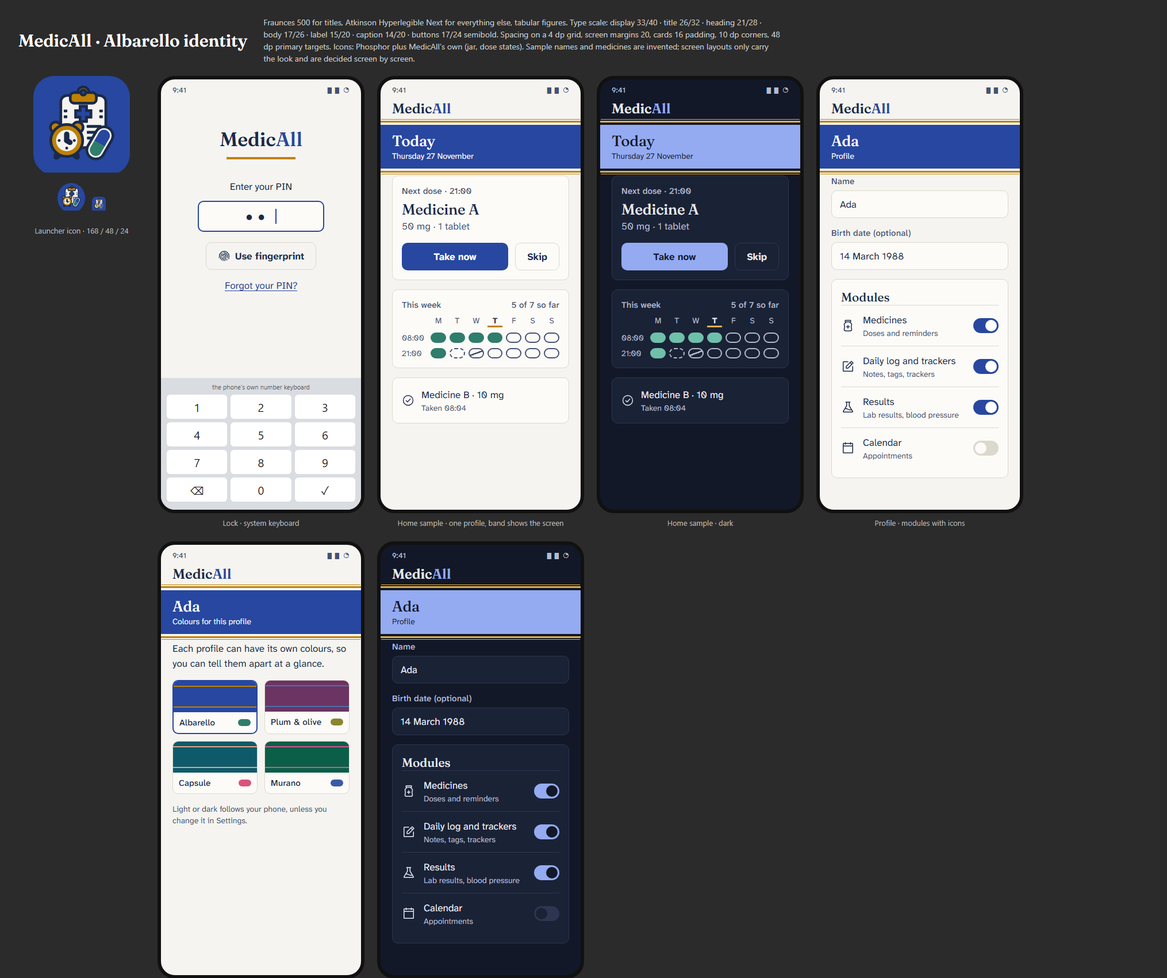
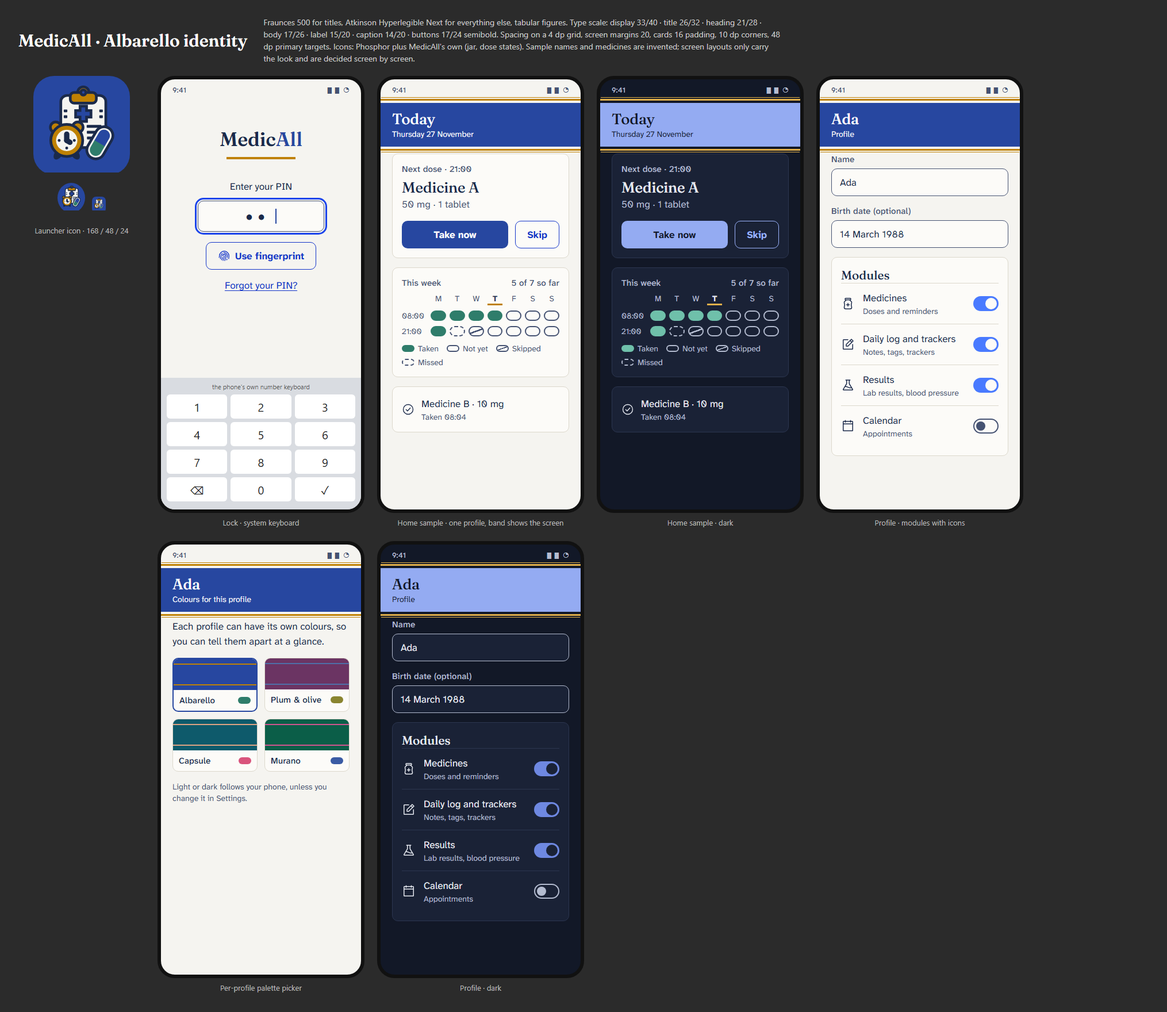
Second pre-merge review: state colours, no-profile palette, band details (SPEC:R93, R114-R116, R120, R122)
- R122 adds link, focus, switch-on, disabled and error colours per palette and mode, derived
  against each whole palette; red only for real errors; every Material 3 role mapped.
- R114: a device palette, Albarello by default, for screens with no profile; red only as the error colour.
- R116: no wordmark row above the band; band sizes, screens without a band, shown profiles.
- R93 acceptance names each rule and bans colour literals; R115's check names the phone;
  R120 today's label at weight 600 and the legend under the strip.
- identity.png re-rendered to match the rules; states.png added; decision record updated
  with what is left for the phases that build each screen.

Changed region(s): [[0.0, 0.0, 0.9, 0.4676], [0.1241, 0.3741, 0.9, 1.0], [0.1552, 0.1247, 0.2793, 0.3118]]

diff --git a/SPEC.md b/SPEC.md
@@ -116,6 +116,7 @@ Kinds: O owner rule · D decided · I inherited · A assumed · Q open.
 | D-R119 | Lock screen look | 16. Visual design |
 | D-R120 | Week strip | 16. Visual design |
 | D-R121 | Scale colours | 16. Visual design |
+| D-R122 | State colours | 16. Visual design |
 | D-R94 | Today screen | 16. Visual design |
 | D-R95 | Frontend decisions are the owner's | 16. Visual design |
 | D-R96 | A dose confirmed on two devices | 17. Edge cases |
@@ -1487,13 +1488,13 @@ People who live with several conditions keep medicines, appointments, lab report
 
 ### D-R93 · Visual identity
 
-**Rule:** MedicAll's visual identity is Albarello, taken from the Italian maiolica pharmacy jar: tin-glaze grounds, a cobalt band edged by a saffron double rule, Fraunces for titles and Atkinson Hyperlegible Next for everything else. R114 to R121 fix its parts, and a screen departs from them only by an owner ruling recorded here.
+**Rule:** MedicAll's visual identity is Albarello, taken from the Italian maiolica pharmacy jar: tin-glaze grounds, a cobalt band edged by a saffron double rule, Fraunces for titles and Atkinson Hyperlegible Next for everything else. R114 to R122 fix its parts, and a screen departs from them only by an owner ruling recorded here.
 
 **Why:** The owner chose it over three other directions (Capsule, Record card, Drawing wall), scored on four axes the owner set: calm, distinctive, legible at a glance and trustworthy. It is MedicAll's own and calm without being sterile.
 
 **Evidence:** The options, renders and measurements are in `docs/decisions/2026-11-25-visual-identity.md`, and the agreed mock-up is `docs/design/identity.png`. The visual-craft skill led the process; palettes were fitted and audited with color-optimization-core, and drawings were checked with the svg-illustration loop (owner, 2026-11-25).
 
-**Acceptance:** Every screen built from phase 2b on takes its colours, faces, sizes and shapes only from R114, R115, R116 and R121.
+**Acceptance:** Every screen built from phase 2b on takes its colours only from R114, R121 and R122, its faces and sizes from R115, its shapes and spacing from R116 and its icons from R117, and no colour literal appears outside the theme; the system's own keyboard and dialogs are exempt.
 
 **Not:** Reusing the palette or design of another of the owner's apps; a stock Material look.
 
@@ -1501,7 +1502,7 @@ People who live with several conditions keep medicines, appointments, lab report
 
 ### D-R114 · Palettes
 
-**Rule:** Each profile shows one of the four palettes in Values, chosen on the device and never synced; a new profile starts on Albarello, and light or dark is one setting for the whole device that follows the system unless the person sets it in the app. The band and primary buttons take the main colour, a taken dose the taken colour, and the accent's double rule is ornament only and never carries text. Text-field outlines and a switch's off track take the muted text colour, and the line colour serves only dividers and card edges.
+**Rule:** Each profile shows one of the four palettes in Values, chosen on the device and never synced, and screens that belong to no profile (lock, first run, passphrase, the profile list) show a device palette the person chooses; both start on Albarello. Light or dark is one setting for the whole device that follows the system unless the person sets it in the app; the band and primary buttons take the main colour, a taken dose the taken colour, and the accent's double rule is ornament only and never carries text. Text-field outlines and a switch's off track take the muted text colour, and the line colour serves only dividers and card edges.
 
 **Why:** A carer tells profiles apart at a glance by their colours (R14), and an adult who wants a more colourful app has one without a childish look. Each palette's taken colour was derived from that palette's own harmony, not picked by eye on one screen (owner, 2026-11-25).
 
@@ -1527,11 +1528,11 @@ People who live with several conditions keep medicines, appointments, lab report
 | Dark-mode body text against its ground | under 15:1 |
 | Taken colour against main and accent, deutan and protan | at least 10 ΔE2000 |
 | Dark grounds | near-black, never #000000 |
-| Red | in no palette |
+| Red | only the error colour (R122) |
 
-**Evidence:** Measured with color-optimization-core and craftkit on 2026-11-25: text on ground 12.9 to 14.7:1, on-main labels 7.7 to 9.1:1, taken pills on the card 3.6 to 6.5:1 in light and 5.0 to 9.1:1 in dark, worst colour-vision gap between taken, main and accent 12.9 (Capsule, dark). The dark grounds pass the phone checks for OLED smear and halation. Control outlines in the muted text colour measure 7.5 to 8.6:1 on the card; the line colour, 1.3 to 1.4:1, is too faint to outline a control (owner, 2026-11-26).
+**Evidence:** Measured with color-optimization-core and craftkit on 2026-11-25: text on ground 12.9 to 14.7:1, on-main labels 7.7 to 9.1:1, taken pills on the card 3.6 to 6.5:1 in light and 5.0 to 9.1:1 in dark, worst colour-vision gap between taken, main and accent 12.9 (Capsule, dark). The dark grounds pass color-optimization-core's phone checks for OLED smear and halation, computed from the values, not seen on a phone. Control outlines in the muted text colour measure 7.5 to 8.6:1 on the card; the line colour, 1.3 to 1.4:1, is too faint to outline a control (owner, 2026-11-26).
 
-**Acceptance:** The Compose theme defines exactly these values per palette and mode; changing a profile's palette changes no file in the sync folder; a new profile opens in Albarello; the light or dark setting is the same for every profile on the device.
+**Acceptance:** The Compose theme defines exactly these values per palette and mode; changing a profile's palette changes no file in the sync folder; a new profile and a new device's lock screen open in Albarello; the light or dark setting is the same for every profile on the device.
 
 **Since:** 2026-11-26 · owner · agreed rewording
 
@@ -1555,19 +1556,27 @@ People who live with several conditions keep medicines, appointments, lab report
 
 **Evidence:** Both faces are under the SIL Open Font License. Atkinson Hyperlegible Next 2.001 has the `tnum` feature and proportional digits by default, so tabular figures must be switched on. The type search proposed a 1.333 ratio, whose top step reaches 70 sp on a phone; the owner took 1.25. Not checked: a 360 dp column holds about 38 characters at 17 sp, below the 50 to 70 that suits long reading, so reading-length screens need a check at 200% font size once built.
 
-**Acceptance:** At 200% system font size and 320 dp width no text on a phase 2b screen is cut or overlaps, and the times in a dose list line up in a column.
+**Acceptance:** On the OnePlus 9 Pro (Android 14) at 200% system font size, and at 320 dp width set with `adb shell wm size` and `wm density`, no text on any screen built from phase 2b on is cut or overlaps, and the times in a dose list line up in a column.
 
-**Since:** 2026-11-25 · owner · agreed rewording
+**Since:** 2026-11-26 · owner · agreed rewording
 
 ### D-R116 · Shape, space and the band
 
-**Rule:** Corners are 10 dp except on pills and switches, spacing follows a 4 dp grid with 20 dp screen margins and 16 dp card padding, and primary actions have 48 dp targets. Every main screen opens with the band: the main colour edged above and below by the accent's double rule, carrying the screen's title. When the device shows two or more profiles, the open profile's name takes the band's large line and the screen's title moves to its small line.
+**Rule:** Corners are 10 dp except on pills and switches, spacing follows a 4 dp grid with 20 dp screen margins and 16 dp card padding, and primary actions have 48 dp targets. Every main screen, one reached from the app's own navigation, opens straight with the band, with no wordmark row above it: the main colour with 12 dp by 20 dp padding, edged above and below by the accent's double rule as in Values, carrying the screen's title in the Title role. When two or more profiles are shown on the device (not hidden and not in the bin), the open profile's name takes the band's Title line and the screen's title moves to a Caption line below it.
 
 **Why:** The band is the identity's signature, the painted band of the jar; most phones hold one profile (R14), so it carries the screen there, and a carer can never miss whose record is open.
 
-**Acceptance:** With one profile the band reads the screen's title; after a second profile is added, every band leads with the open profile's name.
+**Values:**
 
-**Since:** 2026-11-25 · owner · agreed rewording
+| Part | Value |
+|---|---|
+| Inner accent line | 3 dp, 4 dp from the band |
+| Outer accent line | 1 dp, 2 dp beyond the inner line |
+| Screens without a band | the lock screen (R119), first run, passphrase screens and dialogs |
+
+**Acceptance:** With one shown profile the band reads the screen's title; once a second shown profile exists, every band leads with the open profile's name; no main screen has a wordmark row.
+
+**Since:** 2026-11-26 · owner · agreed rewording
 
 ### D-R117 · Icons
 
@@ -1607,7 +1616,7 @@ People who live with several conditions keep medicines, appointments, lab report
 
 ### D-R120 · Week strip
 
-**Rule:** A week of doses is shown as a blister strip: one row per dose time, one column per day, and today's day label set bold in the text colour and underlined in the accent. A taken dose is a solid pill in the taken colour, not yet is an outline, skipped is struck through and missed is dashed, with a legend beside the strip.
+**Rule:** A week of doses is shown as a blister strip: one row per dose time, one column per day, and today's day label set at weight 600 (R115) in the text colour and underlined in the accent. A taken dose is a solid pill in the taken colour, not yet is an outline, skipped is struck through and missed is dashed, with a legend under the strip.
 
 **Why:** It borrows the blister pack, an object the person handles every day, and tells each state by shape (owner, 2026-11-25).
 
@@ -1619,7 +1628,7 @@ People who live with several conditions keep medicines, appointments, lab report
 
 ### D-R121 · Scale colours
 
-**Rule:** Each palette and mode has the three scale colours in Values, and a scale step is drawn in its tracker's colour mixed toward the card, from 35% at the lowest step to full at the highest, with a marker that grows with the step. A chart gives each tracker one scale colour and its name beside its line; past three trackers the colours repeat with a different marker shape (circle, square, diamond, triangle). No scale colour is red or green, and none marks a value as good or bad (R53).
+**Rule:** Each palette and mode has the three scale colours in Values, and a scale step is drawn in its tracker's colour mixed with the card in OKLab, from 35% of the colour at the lowest step to full colour at the highest, with a marker that grows with the step. A chart gives each tracker one scale colour and its name beside its line; past three trackers the colours repeat with a different marker shape (circle, square, diamond, triangle). No scale colour is red or green, and none marks a value as good or bad (R53).
 
 **Why:** The owner asked for colours that show high and low by intensity rather than by green and red, kept apart from the palette's own colours (owner, 2026-11-26). Lightness carries the value, so a set shares one lightness and its colours differ by hue.
 
@@ -1640,13 +1649,62 @@ People who live with several conditions keep medicines, appointments, lab report
 |---|---|
 | Full step against the card | at least 3:1 |
 | Against each other and main, accent and taken, normal, deutan and protan | at least 10 ΔE2000 |
-| OKLCh hue | outside red (345 to 45) and green (110 to 185; 110 to 195 in Murano dark) |
+| OKLCh hue | outside 345 to 45 and 110 to 185 (110 to 195 in Murano dark), within 1 degree of gamut rounding |
 | Hue apart within a set | at least 40 degrees (60 in Murano dark) |
 | Lightness spread within a set | under 0.09 OKLCh |
 
 **Evidence:** Searched per palette and mode with color-optimization-core's colour maths on 2026-11-26 and shown in `docs/design/scales.png`: worst gap 10.4 (Plum & olive light) to 16.3, full steps 3.05 to 9.8:1 on the card. Four colours broke the floors in Albarello light, Plum & olive light and Capsule dark, so three is what holds in every palette. Gamut rounding left three hues on a band's edge (Albarello light's rust at 44.9, the teals at 184.3 and 185.1), which the owner accepted on the board; not checked: tritan vision, and pale low steps of two trackers against each other, which the marker and label carry.
 
 **Acceptance:** The Compose theme defines exactly these colours per palette and mode; a chart of five trackers names every line, and no two of its trackers share both colour and marker shape.
+
+**Since:** 2026-11-26 · owner · agreed rewording
+
+### D-R122 · State colours
+
+**Rule:** Each palette and mode has the five state colours in Values: links and a secondary button's label and outline take the link colour, a 3 dp focus ring drawn 2 dp off its control takes the focus colour, a switch's on track takes the switch colour under a thumb in the card colour, and disabled labels and outlines take the disabled colour. The error colour is the only red in the app and marks only something that went wrong in the app or in what the person entered, always with an information icon and words; a wrong PIN (R119), a missed dose, a result outside its range and any scale end are not errors. Every Material 3 colour role is set as in Values, so none keeps a Material default.
+
+**Why:** Compose fills any unset role with Material's purple and red, and the owner wants neither: red only for actual errors, and every other state colour derived from the palette (owner, 2026-11-26).
+
+**Values:**
+
+| Palette | Mode | Link | Focus | Switch on | Disabled | Error |
+|---|---|---|---|---|---|---|
+| Albarello | light | #1334C9 | #1B44EB | #497AFF | #7281A4 | #830021 |
+| Albarello | dark | #9CB4FE | #4158FF | #6E88E1 | #657E7F | #FFB097 |
+| Plum & olive | light | #67005E | #87007B | #B13DA3 | #848F8B | #58010E |
+| Plum & olive | dark | #F8A1E7 | #D224BD | #B059A1 | #637379 | #FEAEA8 |
+| Capsule | light | #014351 | #0096B3 | #047288 | #83887A | #910224 |
+| Capsule | dark | #0ACFED | #04DFFF | #0BC1DD | #616558 | #C8715D |
+| Murano | light | #005A44 | #009D90 | #037C5F | #91827E | #680017 |
+| Murano | dark | #0CD9A9 | #00FFEB | #0EAF88 | #6C7D7B | #C77B73 |
+
+| Floor | Value |
+|---|---|
+| Link against card and ground | at least 7:1 |
+| Error against card and ground | at least 7:1; 4.5:1 in Capsule dark and Murano dark |
+| Focus and switch on against the card | at least 3:1 |
+| Disabled against the card | 2.5:1 to 4:1 |
+| Link from text, switch on from muted text, disabled from muted text, normal, deutan and protan | at least 10 ΔE2000 |
+| Error from main, accent, taken and the scale colours, normal, deutan and protan | at least 10 ΔE2000 |
+| Error hue | OKLCh 15 to 40 |
+
+| Material 3 role | Takes |
+|---|---|
+| primary, onPrimary | main, on main |
+| secondary, onSecondary | link, card |
+| tertiary, onTertiary | accent, text |
+| background, onBackground | ground, text |
+| surface and every surfaceContainer, surfaceBright, surfaceDim, surfaceTint | card |
+| onSurface, onSurfaceVariant, surfaceVariant | text, muted text, ground |
+| primaryContainer, secondaryContainer, tertiaryContainer | card, with text on them |
+| inverseSurface, inverseOnSurface, inversePrimary | text, card, link |
+| outline, outlineVariant | muted text, line |
+| error, onError, errorContainer, onErrorContainer | error, card, card, error |
+| scrim | text |
+
+**Evidence:** Searched per palette and mode with color-optimization-core's colour maths against each whole palette on 2026-11-26 and shown in `docs/design/states.png`: links 7.8 to 11.5:1, errors 9.0 to 14.0:1 (4.55 and 4.9:1 in the two dark exceptions), focus 3.1 to 12.5:1, switches 3.7 to 7.4:1 and disabled 2.7 to 3.8:1 on the card, with every separation at 10.5 ΔE2000 or more. At 7:1 the dark-mode red of Capsule and Murano landed on their own rose and pink, so the owner took 4.5:1 there. Murano's link, focus and switch sit in its green main colour's family; R121's no-green floor is for scale colours only.
+
+**Acceptance:** The Compose theme sets every ColorScheme role from these tables and no colour literal appears outside it; a form that cannot be saved shows its message in the error colour with the icon; a wrong PIN, a missed dose and an out-of-range result show no error colour.
 
 **Since:** 2026-11-26 · owner · agreed rewording
 
@@ -1828,15 +1886,16 @@ People who live with several conditions keep medicines, appointments, lab report
 - R89 · Hormonal contraception switch: Adding a contraceptive raises the suggestion; a change in logged flow alone never does.
 - R90 · Pregnancy and fertility bundle: With the bundle off, no pregnancy or ovulation item appears; logging a pregnancy pauses period predictions.
 - R91 · Bundles: Turning a bundle on switches on its contents for that profile only, and turning it off hides them without deleting entries.
-- R93 · Visual identity: Every screen built from phase 2b on takes its colours, faces, sizes and shapes only from R114, R115, R116 and R121.
-- R114 · Palettes: The Compose theme defines exactly these values per palette and mode; changing a profile's palette changes no file in the sync folder; a new profile opens in Albarello; the light or dark setting is the same for every profile on the device.
-- R115 · Type: At 200% system font size and 320 dp width no text on a phase 2b screen is cut or overlaps, and the times in a dose list line up in a column.
-- R116 · Shape, space and the band: With one profile the band reads the screen's title; after a second profile is added, every band leads with the open profile's name.
+- R93 · Visual identity: Every screen built from phase 2b on takes its colours only from R114, R121 and R122, its faces and sizes from R115, its shapes and spacing from R116 and its icons from R117, and no colour literal appears outside the theme; the system's own keyboard and dialogs are exempt.
+- R114 · Palettes: The Compose theme defines exactly these values per palette and mode; changing a profile's palette changes no file in the sync folder; a new profile and a new device's lock screen open in Albarello; the light or dark setting is the same for every profile on the device.
+- R115 · Type: On the OnePlus 9 Pro (Android 14) at 200% system font size, and at 320 dp width set with `adb shell wm size` and `wm density`, no text on any screen built from phase 2b on is cut or overlaps, and the times in a dose list line up in a column.
+- R116 · Shape, space and the band: With one shown profile the band reads the screen's title; once a second shown profile exists, every band leads with the open profile's name; no main screen has a wordmark row.
 - R117 · Icons: No icon from another set appears in the app, and the three dose states are told apart in greyscale.
 - R118 · Launcher icon: The Android build's adaptive icon matches `docs/design/launcher.svg`, and no mask on the phones of R09 clips any part of it.
 - R119 · Lock screen look: On the phones of R09, focusing the PIN field opens the system number keyboard, and the wait state shows the time left both in words and as the ring.
 - R120 · Week strip: In greyscale the four states and today are told apart.
 - R121 · Scale colours: The Compose theme defines exactly these colours per palette and mode; a chart of five trackers names every line, and no two of its trackers share both colour and marker shape.
+- R122 · State colours: The Compose theme sets every ColorScheme role from these tables and no colour literal appears outside it; a form that cannot be saved shows its message in the error colour with the icon; a wrong PIN, a missed dose and an out-of-range result show no error colour.
 - R96 · A dose confirmed on two devices: After the sync, the dose shows one confirmation and the stock falls once.
 - R97 · A profile removed: A removed and restored profile has the same record count as before.
 - R98 · Time zones and daylight saving: Emivita's daylight-saving scheduler tests pass in the port.

diff --git a/docs/decisions/2026-11-25-visual-identity.md b/docs/decisions/2026-11-25-visual-identity.md
@@ -1,7 +1,7 @@
-# 2026-11-25 · Visual identity: Albarello (SPEC:R93, SPEC:R114 to SPEC:R120)
+# 2026-11-25 · Visual identity: Albarello (SPEC:R93, SPEC:R114 to SPEC:R122, SPEC:R53)
 
-**Decision (owner, 2026-11-25):** MedicAll's look is Albarello, taken from the Italian maiolica pharmacy
-jar. Its rules are R93 and R114 to R120; the agreed mock-up is `docs/design/identity.png`, the launcher
+**Decision (owner, 2026-11-25, completed 2026-11-26):** MedicAll's look is Albarello, taken from the
+Italian maiolica pharmacy jar. Its rules are R93 and R114 to R122, with R53 reworded; the agreed mock-up is `docs/design/identity.png`, the launcher
 source is `docs/design/launcher.svg` (with the owner's Affinity file `launcher.af`), and the custom icons
 are in `docs/design/icons`. All names and medicines in the images are invented.
 
@@ -33,7 +33,8 @@ Palettes from the owner's other apps were ruled out first, so none of the direct
   harmonious alternative duplicated Capsule's rose.
 - **Dark mode.** Two dark taken colours were too dim (3.0 and 4.3:1 on the card); they were lifted to
   5:1, the most the rose allows before it nears the apricot rule for deutan vision. Dark grounds stay
-  near-black, which the phone checks for OLED smear and halation pass.
+  near-black; color-optimization-core's phone checks for OLED smear and halation pass on the values
+  (computed, not seen on a phone).
 - **Lock screen.** The owner asked for the system keyboard instead of an in-app keypad (R119).
 - **Icons.** A custom batch was drawn and compared with Material Rounded, Phosphor and Lucide. The owner
   took Phosphor for generic controls and the custom set for MedicAll's own objects; Phosphor's pill
@@ -66,11 +67,37 @@ A pre-merge read of the rules against the rest of the spec found four gaps; the 
 - **Control outlines.** The line colour is 1.3 to 1.4:1 on the card, too faint for a text field or a
   switch's off track; those take the muted text colour (R114).
 - **Today in the week strip.** The accent underline alone is 2.2:1 in Capsule light, so today's label
-  is also set bold (R120).
+  is also set at weight 600 (R120).
 - **Light or dark.** One setting for the whole device, not per profile (R114).
 
-## 5. Not checked
+A second, independent read of the whole spec against these rules found more; the owner settled these:
+
+- **State colours (R122).** No rule coloured focus, switch on, disabled, links, secondary buttons or
+  errors, and Compose fills unset roles with Material's purple and red. The owner allowed red only for
+  actual errors and asked for every other state colour to be derived. Five roles per palette and mode
+  were searched against the whole palette; the focus ring is drawn 2 dp off its control so it is judged
+  against the card. In Capsule dark and Murano dark a 7:1 red landed on the palette's own rose and pink,
+  so the owner took a 4.5:1 brick red there. Every Material 3 role is mapped. Board: `docs/design/states.png`.
+- **Screens with no profile.** Lock, first run, passphrase and the profile list show a device palette the
+  person chooses, Albarello by default (R114).
+- **The band.** The wordmark row above the band was dropped; the band's sizes, the screens without one and
+  "shown" profiles are now in R116. The mock-up was re-rendered to match the rules: no wordmark row,
+  outlines in the muted text colour, the state colours and the strip's legend.
+- **Wording.** Today's label at weight 600 (R115 caps weight at 600), the scale mixing in OKLab, the hue
+  floor's rounding, the OLED claim marked as computed, and R115's check named on the OnePlus 9 Pro.
+
+## 5. Not checked, and left for the phase that builds each screen
 
 Everything was rendered in a headless browser at 1x, not on the phones of R09: the launcher masks, the
 icons at real pixel densities, and the reading screens at 200% font size are checked when phase 2b builds
-them (R100).
+them (R100). Left open, to settle before the screen that needs it:
+
+- charts: whether a tracker keeps one scale colour everywhere or takes one by chart order, marker sizes,
+  lines or dot rows, and more than twelve trackers; low scale steps (1.5 to 2.4:1) have no floor;
+- Pain's 0 to 10 has eleven steps, against the glossary's "2 to 10 ordered steps" (an older conflict);
+- the week strip: a "late" state (the glossary has a late window), as-needed doses, pill size, and its fit
+  at 320 dp;
+- colours for lab range bands, app flags, out-of-range points and PDF charts (R44, R46): any new colour
+  needs an owner ruling in R93's terms;
+- the Android notification icon and the themed (monochrome) launcher layer;
+- licence notices for the bundled fonts (OFL) and Phosphor (MIT), and tritan vision for every colour set.

diff --git a/SPEC-history.md b/SPEC-history.md
@@ -162,3 +162,10 @@ Not a source of current rules: `SPEC.md` is. One line per change, newest at the 
 - 2026-11-26 · R114 · changed · light or dark is one device setting; control outlines take the muted text colour · owner
 - 2026-11-26 · R120 · changed · today's label set bold, the accent underline is ornament · owner
 - 2026-11-26 · R121 · added · scale colours · owner
+- 2026-11-26 · R122 · added · state colours: link, focus, switch on, disabled, error; Material roles mapped · owner
+- 2026-11-26 · R93 · changed · parts R114 to R122; acceptance names each rule and bans colour literals · owner
+- 2026-11-26 · R114 · changed · device palette for screens with no profile; red only as the error colour · owner
+- 2026-11-26 · R115 · changed · acceptance names the phone and how to set 320 dp · owner
+- 2026-11-26 · R116 · changed · no wordmark row; band sizes; main screen and shown profiles defined · owner
+- 2026-11-26 · R120 · changed · today's label at weight 600; legend under the strip, as on the mock-up · owner
+- 2026-11-26 · spec · changed · glossary: "Palette", "Band" and "Blister strip" added · owner
